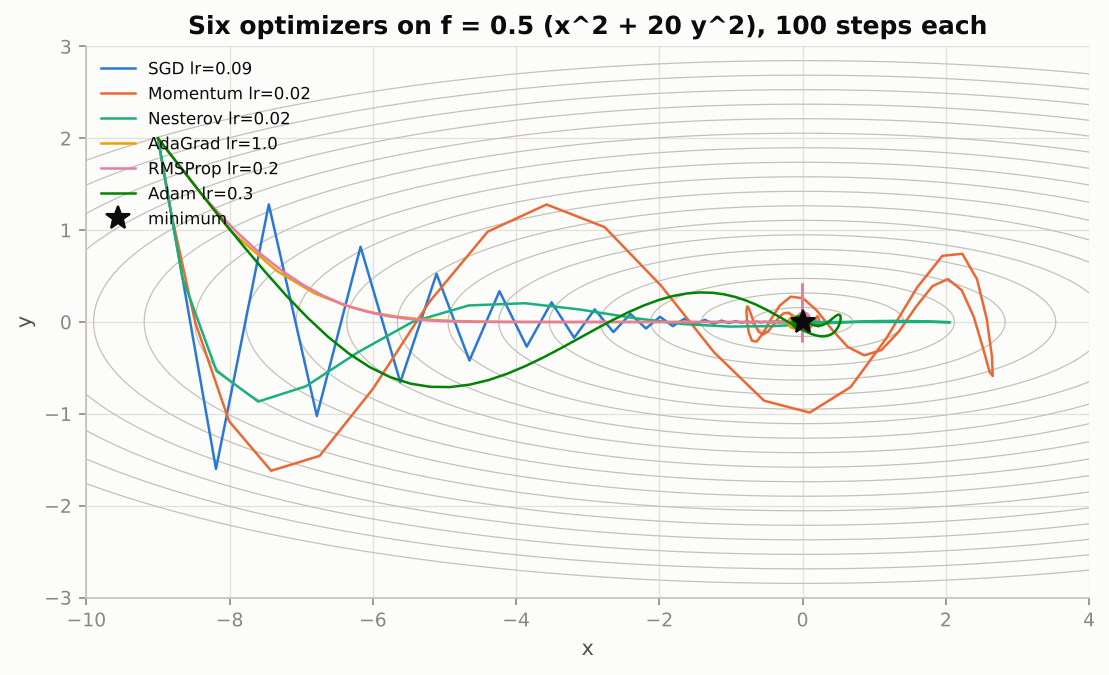
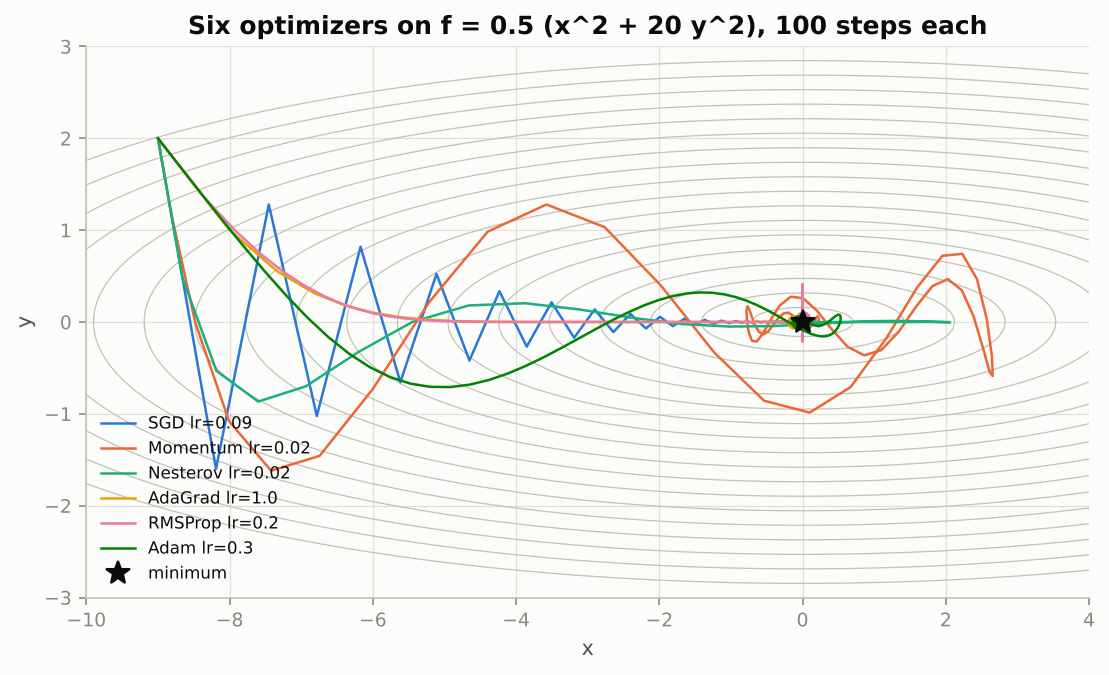
WIP: more companion figures
Claude-Session: https://claude.ai/code/session_01AyDyWZLS5ijWEeo4Qagpbd

Changed region(s): [[0.092, 0.6222, 0.2759, 0.8711], [0.092, 0.0933, 0.2759, 0.3422]]

diff --git a/notebooks/figures/scripts/make_figures_04.py b/notebooks/figures/scripts/make_figures_04.py
@@ -462,8 +462,8 @@ def fig_overfit_polynomial():
     axes[2].semilogx(lams, tr_ridge, color=SERIES[0], label="training MSE")
     axes[2].semilogx(lams, te_ridge, color=SERIES[1], label="test MSE")
     axes[2].plot(lams[i_best], te_ridge[i_best], "o", ms=7, color=SERIES[1])
-    axes[2].annotate(f"best lambda = {lams[i_best]:.1e}", (lams[i_best], te_ridge[i_best]), xytext=(8, 12),
-                     textcoords="offset points", fontsize=8)
+    axes[2].annotate(f"best lambda = {lams[i_best]:.1e}", (lams[i_best], te_ridge[i_best]), xytext=(-95, 30),
+                     textcoords="offset points", fontsize=8, arrowprops=dict(arrowstyle="-", color=MUTED, lw=0.8))
     axes[2].set_xlabel("L2 penalty lambda (degree 9)"); axes[2].set_ylabel("mean squared error")
     axes[2].set_title("Weight decay tames the degree-9 fit"); axes[2].legend(fontsize=8)
     save(fig, NB, "overfitting_polynomial")
@@ -498,7 +498,7 @@ def fig_dropout_and_label_smoothing():
     ax1.imshow(M, cmap=SEQ_CMAP, aspect="auto", vmin=0, vmax=h.max())
     for i in range(12):
         ax1.text(i, 0, f"{h[i]:.2f}", ha="center", va="center", fontsize=7, color=INK)
-        ax1.text(i, 1, "keep" if mask[i] else "drop", ha="center", va="center", fontsize=7, color=INK if mask[i] else SURFACE)
+        ax1.text(i, 1, "keep" if mask[i] else "drop", ha="center", va="center", fontsize=7, color=SURFACE if mask[i] else INK_2)
         ax1.text(i, 2, f"{out[i]:.2f}", ha="center", va="center", fontsize=7, color=INK)
     ax1.set_yticks([0, 1, 2]); ax1.set_yticklabels(["input h", "mask (p = 0.5)", "output h·mask/(1-p)"]); ax1.set_xticks([])
     ax1.grid(False); ax1.set_title(f"Inverted dropout (p = 0.5): {int(mask.sum())} of 12 units kept, survivors doubled")
@@ -572,18 +572,23 @@ def fig_loss_curve_shapes():
     print(f"underfitting / too short: the first 40 epochs of the same run end at train {tr_l[39]:.3f}, test {te_l[39]:.3f}, both still falling")
 
     fig, axes = plt.subplots(2, 3, figsize=(12, 6.6))
-    panels = [(axes[0, 0], "Learning rate too low", low, "barely moves"),
-              (axes[0, 1], "Learning rate too high", np.minimum(high, 5.0), "spikes off the chart, then inf / NaN"),
-              (axes[0, 2], "Healthy", healthy, "fast drop, slow noisy decline"),
-              (axes[1, 0], "Bad initialization", plateau, "flat plateau, then a sudden drop")]
-    for ax, title, losses, note in panels:
-        ax.plot(losses, lw=1.0, color=SERIES[0])
+    panels = [(axes[0, 0], "Learning rate too low", low, low_full, "barely moves"),
+              (axes[0, 1], "Learning rate too high", high, high_full, "explodes, then inf / NaN"),
+              (axes[0, 2], "Healthy", healthy, healthy_full, "fast drop, slow noisy decline")]
+    for ax, title, losses, full, note in panels:
+        ax.plot(losses, lw=0.7, alpha=0.45, color=SERIES[0], label="mini-batch loss")
+        ax.plot(full, lw=1.8, color=SERIES[0], label="loss on all data")
         ax.set_title(title); ax.set_xlabel("step"); ax.set_ylabel("loss")
         ax.text(0.03, 0.9, note, transform=ax.transAxes, fontsize=8, color=INK_2)
-    axes[0, 0].set_ylim(0, 3); axes[0, 1].set_ylim(0, 5.2); axes[0, 2].set_ylim(0, 3); axes[1, 0].set_ylim(0, 0.6)
+    axes[0, 0].set_ylim(0, 3); axes[0, 2].set_ylim(0, 3); axes[0, 2].legend(fontsize=8)
+    axes[0, 1].set_yscale("log"); axes[0, 1].set_ylabel("loss (log)")
+    ax = axes[1, 0]
+    ax.plot(plateau, lw=1.5, color=SERIES[0]); ax.set_ylim(0, 0.6)
+    ax.set_title("Bad initialization"); ax.set_xlabel("step"); ax.set_ylabel("loss")
+    ax.text(0.03, 0.9, "flat plateau, then a sudden drop", transform=ax.transAxes, fontsize=8, color=INK_2)
     ax = axes[1, 1]
     ax.plot(tr_l, color=SERIES[0], label="train"); ax.plot(te_l, color=SERIES[1], label="validation")
-    ax.axvline(i_best + 1, color=MUTED, ls=":", lw=1); ax.set_ylim(0, 1.2)
+    ax.axvline(i_best + 1, color=MUTED, ls=":", lw=1); ax.set_ylim(0, 1.9)
     ax.set_title("Overfitting"); ax.set_xlabel("epoch"); ax.set_ylabel("loss"); ax.legend(fontsize=8)
     ax.text(0.03, 0.9, f"validation turns up after epoch {i_best + 1}", transform=ax.transAxes, fontsize=8, color=INK_2)
     ax = axes[1, 2]
